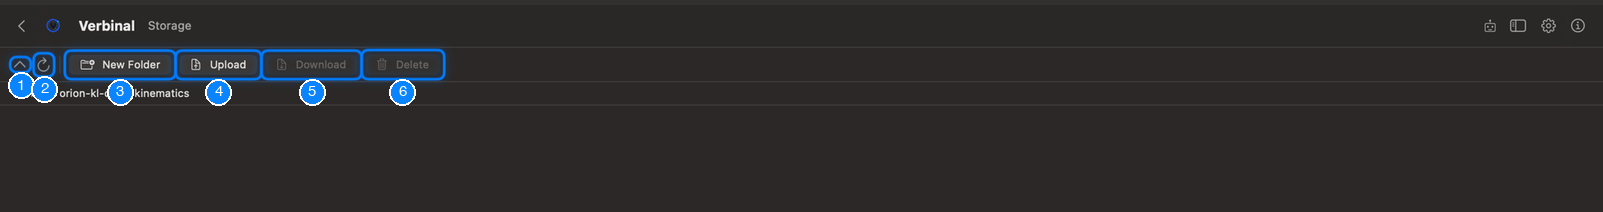
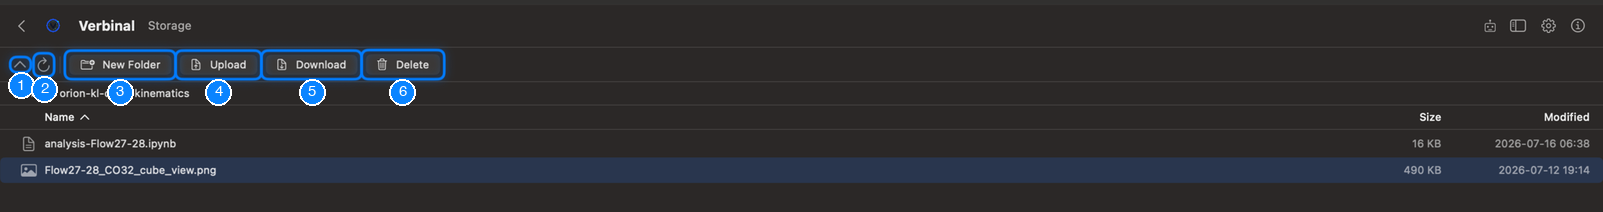
Manual P: the English Storage picture, with the folder listed

diff --git a/docs/plans/32-user-manual.md b/docs/plans/32-user-manual.md
@@ -142,7 +142,7 @@ as the parity test does for tools.
 | **E** | Chapters 4, 5 | done `0799096`, `ed634c8` |
 | **F** | Chapters 6–9 | done `c534d74`, `3119c4e`, `cf5151b` |
 | **G** | Chapters 10, 11, 15, 16, A, B | done `2ed4715`, `c79f230`, `3547ef4`, `fa45d27` |
-| **P** | Pictures: 49 in each language | done: French in this session, English `495b588`; the English Storage picture to retake (its listing was cancelled) |
+| **P** | Pictures: 49 in each language | done: French in this session, English `495b588`, the English Storage picture retaken after Storage listed again |
 | **L** | README's top links the manual in both languages; `docs/MCP-Setup.md` and AGENTS.md link chapter 12 | done `80e26ed` |
 | **R** | [Handout 33](./33-manual-review.md): a new-user pass in each language | handout written `e36dd45`; the pass is the reviewer's |
 
